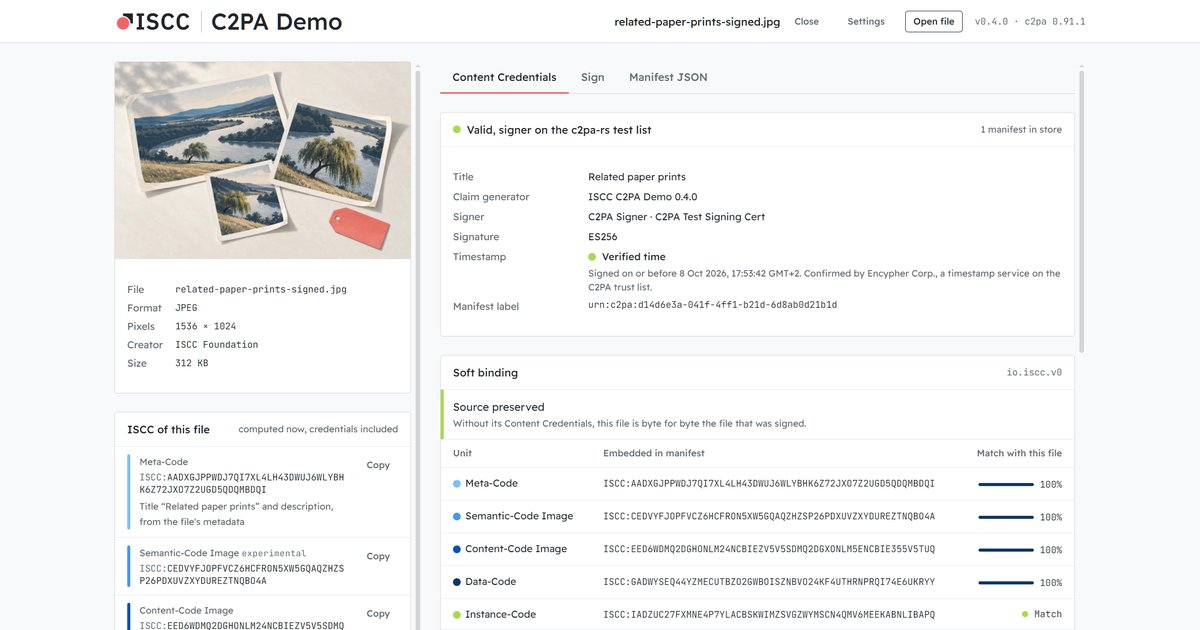
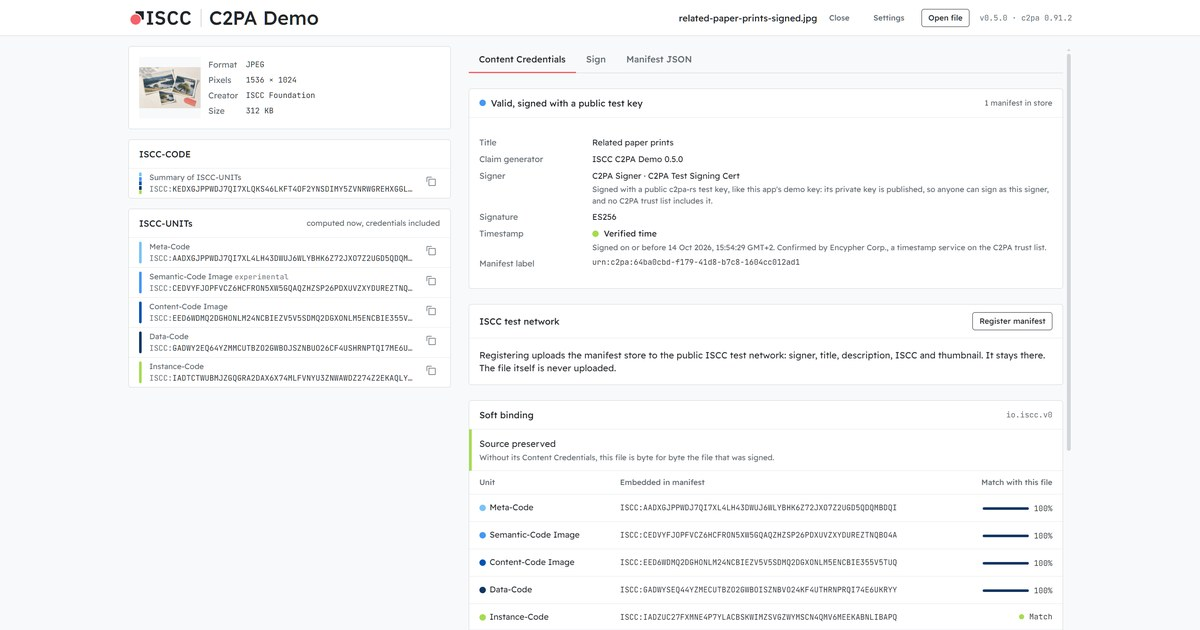
chore: release v0.5.0

diff --git a/site/index.html b/site/index.html
@@ -37,7 +37,7 @@
         <span class="label version">{{version_label}}</span>
       </div>
       <figure class="shot">
-        <img src="assets/signed.webp" width="1968" height="1386" alt="The app with a signed image open: the Content Credentials tab says Valid with a verified timestamp, the source is preserved, and every ISCC unit in the soft binding matches the file: Meta-Code, Semantic-Code Image, Content-Code Image and Data-Code at 100 percent, and the Instance-Code exactly.">
+        <img src="assets/signed.webp" width="2278" height="1637" alt="The app with a signed image open: the Content Credentials tab says Valid, signed with a public test key, with a verified timestamp, offers to register the manifest on the ISCC test network, and says the source is preserved, and every ISCC unit in the soft binding matches the file: Meta-Code, Semantic-Code Image, Content-Code Image and Data-Code at 100 percent, and the Instance-Code exactly.">
       </figure>
       <p class="caption">A signed image, opened again. C2PA says <b>Valid</b>, and every ISCC unit in its soft binding
         matches the file. Re-encode it at half size and the C2PA hash breaks, but the Content-Code still matches at
@@ -45,7 +45,7 @@
         where unrelated images score around 50%.</p>
     </section>
 
-    <section class="wrap grid3" aria-label="What you can do">
+    <section class="wrap grid4" aria-label="What you can do">
       <div>
         <h3><span class="step">1</span>Inspect</h3>
         <p>Drop an image, a document, an audio or a video file. See its Content Credentials (who signed it, when, and
@@ -54,12 +54,17 @@
       <div>
         <h3><span class="step">2</span>Sign</h3>
         <p>Save a signed copy. Its Content Credentials carry the ISCC, a timestamp and, if you choose, whether AI
-          training and data mining is allowed.</p>
+          training and data mining is allowed. Register its manifest on the ISCC test network.</p>
       </div>
       <div>
         <h3><span class="step">3</span>Check</h3>
         <p>Open a signed file, changed or not. The app calculates the ISCC again and compares it with the one in the
           Content Credentials, unit by unit.</p>
+      </div>
+      <div>
+        <h3><span class="step">4</span>Recover</h3>
+        <p>Open a copy that lost its Content Credentials. The app finds them on the ISCC test network by the ISCC,
+          checks them against the file and, for the original, puts them back.</p>
       </div>
     </section>
 
@@ -165,10 +170,11 @@
       <p class="label">Good to know</p>
       <h2>What the demo does not do</h2>
       <ul class="notes">
-        <li><b>It does not look up credentials.</b> The app compares ISCCs, but it does not find the credentials of a
-          stripped copy. That needs a lookup service, which C2PA specifies as the Soft Binding Resolution API.</li>
-        <li><b>The built-in certificate is for testing.</b> Anyone can check the ISCC, but only this app trusts the
-          demo signature. Sign with your own certificate and key for anything real.</li>
+        <li><b>Recovery runs on a test network.</b> The app asks the ISCC test store and resolver through the C2PA
+          Soft Binding Resolution API. Their data is for trying things out and may be reset.</li>
+        <li><b>The built-in certificate is for testing.</b> Its private key is public, so no one trusts it, this app
+          included: files signed with it show "Valid, signed with a public test key". Sign with your own
+          certificate and key for anything real.</li>
         <li><b>A matching ISCC shows similar content.</b> It is a strong signal, not proof, that two files hold the
           same or similar content. It says nothing about who made them or who holds the rights.</li>
         <li><b>Video needs ffmpeg, downloaded once.</b> The first time you open a video, the app offers to download
@@ -185,7 +191,8 @@
           that are scans (Latin script and Chinese), so a scanned document gets a Content-Code. Off, every PDF keeps
           the codes iscc-sdk computes. The models are built in.</li>
         <li><b>Your files stay on your computer.</b> Inspecting works offline, once ffmpeg and the models are there.
-          When you sign, only a hash of the signature goes to a timestamp service.</li>
+          When you sign, only a hash of the signature goes to a timestamp service. Registering uploads the manifest
+          (signer, title, description, ISCC, thumbnail), and recovering sends the file's ISCC; never the file.</li>
       </ul>
     </section>
 

diff --git a/site/style.css b/site/style.css
@@ -74,9 +74,9 @@ main > section.hero { background: none; padding-top: 48px; }
 
 .shot { margin: 0; border: 1px solid var(--rule); border-radius: var(--radius); overflow: hidden; background: var(--white); box-shadow: 0 24px 48px -32px rgba(33, 37, 41, 0.35); }
 
-.grid3 { display: grid; grid-template-columns: repeat(3, minmax(0, 1fr)); gap: 32px; }
-.grid3 h3 { padding-top: 16px; border-top: 2px solid var(--ink); }
-.grid3 p { font-size: 16px; line-height: 24px; }
+.grid4 { display: grid; grid-template-columns: repeat(4, minmax(0, 1fr)); gap: 32px; }
+.grid4 h3 { padding-top: 16px; border-top: 2px solid var(--ink); }
+.grid4 p { font-size: 16px; line-height: 24px; }
 .step { font: 400 14px/28px var(--font-mono); color: var(--coral); margin-right: 12px; }
 
 /* Watermark versus fingerprint: two cards, the ISCC one marked with the coral rule */
@@ -124,7 +124,8 @@ footer { padding-block: 48px 64px; font-size: 16px; line-height: 24px; }
 
 @media (max-width: 960px) {
   h1 { font-size: 44px; line-height: 52px; }
-  .grid3, .split, .downloads { grid-template-columns: minmax(0, 1fr); }
+  .grid4 { grid-template-columns: repeat(2, minmax(0, 1fr)); }
+  .split, .downloads { grid-template-columns: minmax(0, 1fr); }
 }
 
 @media (max-width: 600px) {
@@ -133,6 +134,7 @@ footer { padding-block: 48px 64px; font-size: 16px; line-height: 24px; }
   h2 { font-size: 26px; line-height: 32px; }
   .lead { font-size: 18px; line-height: 28px; }
   .top nav { display: none; }
+  .grid4 { grid-template-columns: minmax(0, 1fr); }
   .kinds { grid-template-columns: minmax(0, 1fr); }
   .units li { grid-template-columns: 1fr; gap: 4px; }
   main > section { padding-block: 48px; }

diff --git a/CHANGELOG.md b/CHANGELOG.md
@@ -1,60 +1,32 @@
 # Changelog
 
-## Unreleased
+## 0.5.0 - 2026-10-14
 
-- Three signing actions behind one split button: **Sign, embed & register** (the default) writes
-  the signed copy and registers its manifest store on the ISCC test network, where the test store
-  keeps it and declares its ISCC, so a copy that loses its Content Credentials can be matched to
-  them; **Sign & embed** writes the signed copy only; **Sign** writes the manifest as a sidecar
-  `<stem>.c2pa` next to the file, which stays as it is, for the formats c2pa-rs leaves untouched
-  (JPEG, PNG, WebP, GIF, TIFF, SVG, TXT, Markdown, WAV, M4A, MP4, MOV, M4V, AVI) and files without
-  embedded Content Credentials. Any file with Content Credentials can be registered from its
-  Content Credentials tab, which shows the store's answer. Registering uploads the manifest store
-  (signer, title, description, ISCC, thumbnail), never the file. Enter in a field of the Sign tab
-  no longer signs. In the CLI: `sign --sidecar` and `register`.
-- Recover Content Credentials: a file without them can be looked up on the ISCC test network (the
-  test store and the resolver, through the C2PA Soft Binding Resolution API). The file's ISCC,
-  which identifies this exact file, is sent with the IP address, by POST and without its
-  Meta-Code; never the file. The card says so before the first search. Each
-  manifest found is fetched and checked against the file: C2PA's verdict for the file as it is
-  (credentials found this way are rejected for it, with both warnings the specification asks
-  for), the app's ISCC check of every `io.iscc.v0` block (labelled as not part of C2PA
-  validation), the signer (a public test key named as such), a verified time only from a trusted
-  timestamp, the claim thumbnail next to the file, and every detail of the manifest, in one
-  expandable card per match. Near-identical matches only (an equal Instance-Code, or a
-  Content-Code at least 92% similar) first, equal Instance-Codes first, then the earliest; then
-  related content, the strongest kind of match first. Each card names its kind of match (Exact,
-  Near-identical, Re-encoded, Adaptation, Corroborated, Title only, Isolated, Incoherent, from
-  iscc-hub's tiered ranking) with the scores it rests on, and opens with one tile per unit;
-  manifests that do not read, hold another manifest, fail their signature or
-  claim several files are left out, with the reason.
-- Restore Content Credentials: for a match with an equal Instance-Code, the app puts the found
-  credentials back into the file and validates the result; when it validates ("Exact match"),
-  Restore writes it as a copy and opens it. For the unsigned original of a signed file in any of
-  the 24 formats that is the signed file again, byte for byte (a PDF only when signing left its
-  title and description as they were). The check passes only when their hash covers the whole
-  file; an MP3 signed by c2pa-rs leaves its ID3 tag out of the hash, so it gets no Restore.
-- Every assertion the app signs is listed as created, so the C2PA specification attributes the
-  ISCC soft binding, the claim thumbnail, the parent ingredient and the CAWG assertions to the
-  signer. Before, c2pa-rs listed all but the actions as gathered.
-- Signed manifests declare the C2PA specification version they follow, 2.4
-  (`specVersion` in `claim_generator_info`), which the C2PA Conformance Program requires from
-  spec 2.4 on. A new check signs a file of every kind of container and evaluates the manifests
-  with the C2PA Conformance Task Force's asset rubric (`scripts/conformance.py`, in CI).
+- Recover Content Credentials: a file without them can be looked up on the ISCC test network,
+  the test store and the resolver, through the C2PA Soft Binding Resolution API. Only the file's
+  ISCC is sent, never the file. Every manifest found is checked against the file and shown in a
+  card of its own: C2PA's verdict, the app's ISCC check unit by unit, the kind of match (Exact,
+  Near-identical, Re-encoded and so on, from iscc-hub's tiered ranking), the signer, the
+  timestamp and the claim thumbnail next to the file.
+- Restore: for an exact match, the app puts the found credentials back into the file and
+  validates the result. For the unsigned original of a signed file this writes the signed file
+  again, byte for byte, in every format but MP3 (c2pa-rs leaves its ID3 tag out of the hash); a
+  PDF only when signing kept its title and description.
+- Three signing actions: **Sign, embed & register** (the default) also registers the manifest
+  on the ISCC test network, so a copy that loses its Content Credentials can find them again;
+  **Sign & embed** writes the signed copy only; **Sign** writes a `.c2pa` sidecar and leaves the
+  file as it is. Registering uploads the manifest (signer, title, description, ISCC, thumbnail),
+  never the file. In the CLI: `sign --sidecar` and `register`.
+- "How was this file made?" asks two plain questions, where the content comes from and what
+  happened to it afterwards, and records the matching IPTC digital source type. The Sign tab
+  folds its sections and keeps its help behind info tips.
+- Closer to the C2PA specification: signed manifests declare spec version 2.4, every assertion
+  the app signs is listed as created and so attributed to the signer, and CI checks signed files
+  against the C2PA Conformance Task Force's asset rubric.
 - The built-in demo certificate is no longer trusted inside the app: its private key is public,
-  so files signed with it show "Valid, signed with a public test key" instead of "Valid, signer
-  on the c2pa-rs test list".
-- Signing no longer deletes a file whose name is a tilde plus the output's name (signing
-  `~photo.jpg` to `photo.jpg` deleted the source): the copy is written in a temporary folder of
-  its own next to the output.
-- "How was this file made?" in the Sign tab asks two plain questions instead of offering one
-  long list of IPTC terms: where the content comes from (photographed, scanned, written or drawn
-  by a person, generated by AI, …, only what fits the file) and what happened to it afterwards
-  (nothing, edited by hand, enhanced automatically, changed with generative AI). The app records
-  the matching IPTC digital source type and shows it with its definition, and says when viewers
-  show it as made with generative AI. "Choose the term yourself" still offers every active IPTC
-  term, `virtualRecording` included, which was missing; "Empty (blank canvas)" is gone, as it
-  does not describe an existing file.
+  so files signed with it show "Valid, signed with a public test key".
+- Signing no longer deletes a source named like the output with a leading tilde (signing
+  `~photo.jpg` to `photo.jpg`).
 
 ## 0.4.0 - 2026-10-08
 

diff --git a/DEVELOPMENT.md b/DEVELOPMENT.md
@@ -29,9 +29,9 @@ Opening a file shows:
 - the claim thumbnail of the manifest next to the file's own picture, to compare by eye (see
   [Thumbnail](#thumbnail));
 - the CAWG training and data mining assertion, if present;
-- for a file without Content Credentials, a search of the ISCC test network for credentials
-  published for it or for a near-identical copy, each checked here against the file, and Restore,
-  which puts found credentials back into an unsigned original (see
+- for a file without Content Credentials, Recover Content Credentials: a lookup on the ISCC test
+  network for credentials published for it or for a near-identical copy, each checked here
+  against the file, and Restore, which puts found credentials back into an unsigned original (see
   [Search and recovery](#search-and-recovery)).
 
 The Sign tab has three actions behind one split button (see
@@ -383,7 +383,9 @@ there), and the menu shows Sign disabled with that reason. The result's inspecti
 source with its sidecar: valid, source-preserving, every unit equal.
 
 **Register.** `register::register` uploads the manifest store of a file (`register::manifest_store`:
-a `.c2pa` file itself, the store a file embeds, else its sidecar) to the test store with
+a `.c2pa` file itself, the store a file embeds, else its sidecar; the zeros c2pa-rs pads a PDF's
+store with to fill its reserved space are dropped, as the store takes the JUMBF superbox alone, and
+the PDF rebuild pads them back) to the test store with
 `POST /v1/manifests?declare=true`, `Content-Type: application/c2pa`, anonymous, 30 s budget (the
 store declares on the hub during the upload). The answer carries the manifest ID, its address on
 the store and the declaration (`declared` with an ISCC-ID on `staging.iscc.id`, `pending` while the

diff --git a/README.md b/README.md
@@ -41,7 +41,8 @@ calculate from the file, without registration. With the app you can:
 1. Inspect an image, document, audio or video file: who signed its Content Credentials, when, whether the
    signature holds, and what its ISCC is.
 2. Sign a copy whose Content Credentials carry the ISCC and, if you choose, whether AI training and
-   data mining is allowed.
+   data mining is allowed, and register its manifest on the ISCC test network, so that copies
+   which lose their Content Credentials can find them again.
 3. Check a signed file, changed or not. The app calculates the ISCC again and compares it with the
    one in the Content Credentials, unit by unit.
 4. Find the Content Credentials of a file that has none, on the ISCC test network: the app sends
